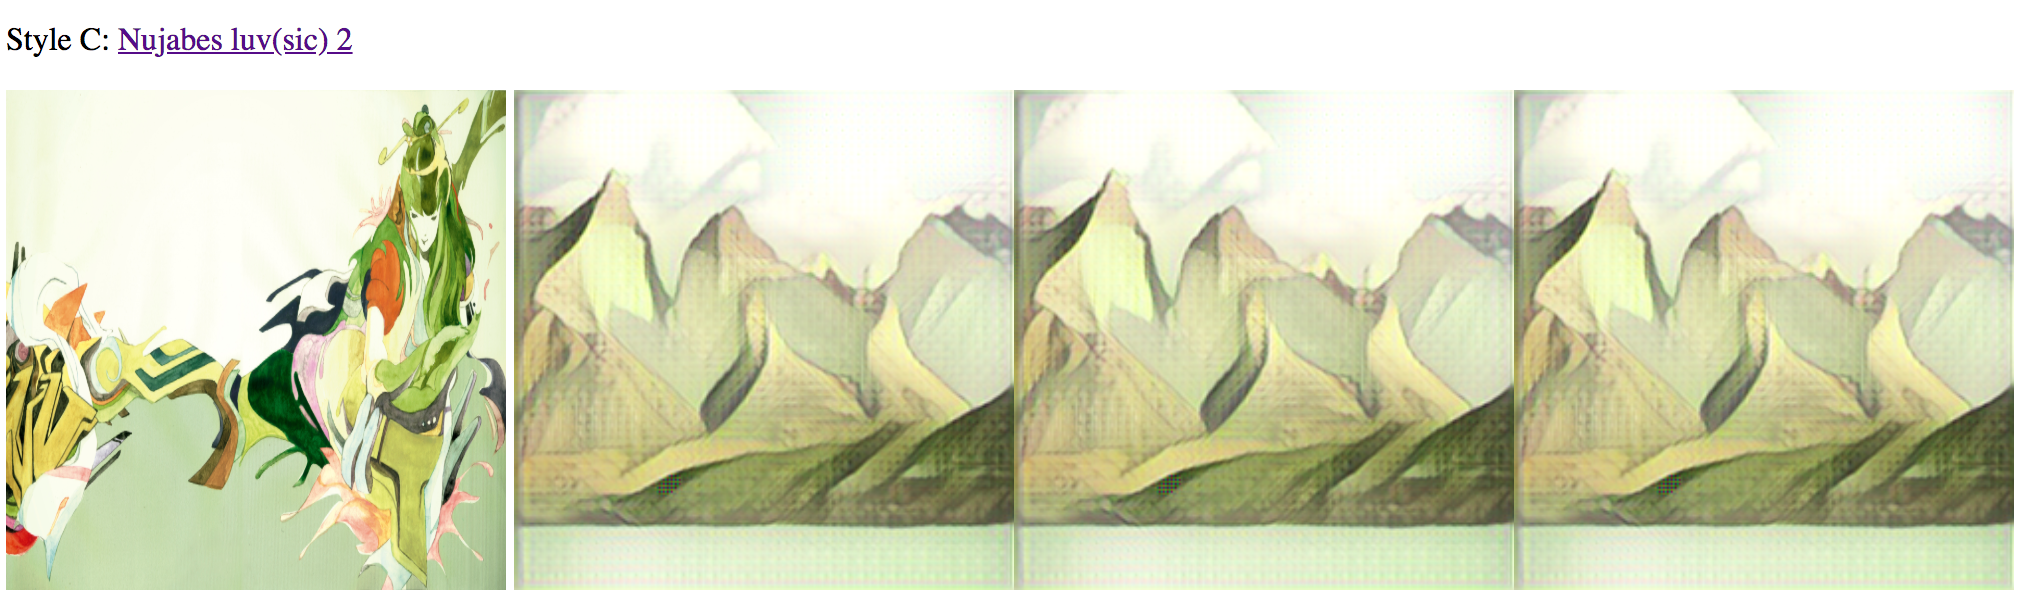
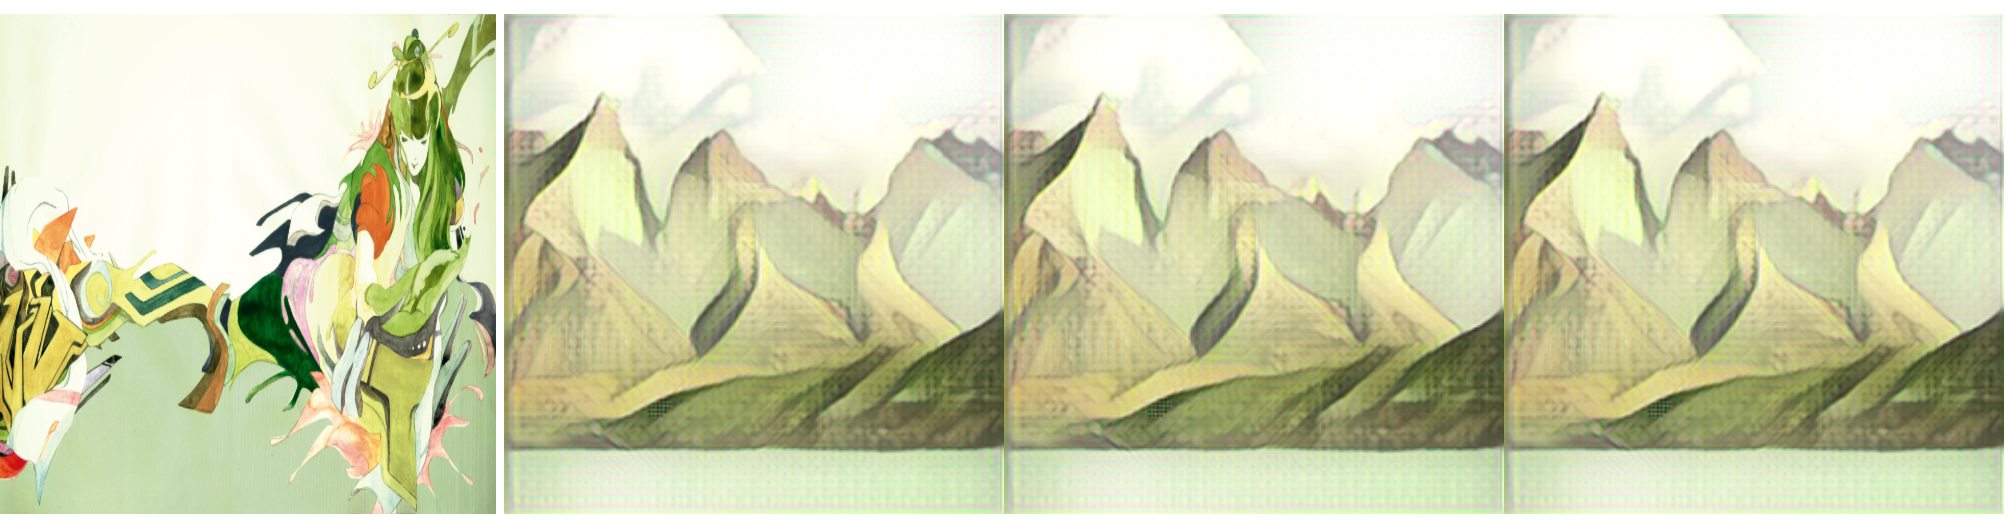
crop images and update blog files

diff --git a/week02-blog/blog.md b/week02-blog/blog.md
@@ -1,23 +1,26 @@
 # Week 2 - Teachable Machine/Transfer Learning
 
-This week we were making a teachable machine. I wanted to train my own data set without using a a webcam. I wanted to see if the machine could tell the difference between a Maine Coon cat and a Racoon.
+This week we were making a teachable machine. I wanted to train my own data set without using a a webcam. I wanted to see if the machine could tell the difference between a Maine Coon cat and a Racoon. I followed [this](https://ml5js.org/docs/training-introduction) example from the ml5 documentation.
 
-https://ml5js.org/docs/training-introduction
+One of the issues I kept having is that ml5 will return an error that it cannot predict null. And the train function needed to be placed in the callback for things to work. I'm sure there's a better way to handle that issue but it was extremely frustrating trying to train the model in the first place. I used the code from this person's [issue](https://github.com/ml5js/ml5-library/issues/185) to debug my own problem.
 
-
-![Image of error 1]
-()
-https://github.com/ml5js/ml5-library/issues/185
-
-
-![Image of error 2]
-()
+## Results
 
 !input]
-()
+(images/input.png?raw=true)
 
 ![result]
-()
+(/images/mainecoon.png?raw=true)
 
 ![result]
-()
+(images/racoon.png?raw=true)
+
+One of the biggest issues is that I am always retraining my model upon refresh, so it would be ideal to implement a save feature and then have that one model loaded every time. I think this would help with the consistency because right now about 60% of the time I have run the program it will label the input image correctly and 40% of the time it won't. Really, my goal was to not use the webcam because my cat didn't want to be my test subject. I also could have added a block that tells the user that the model is being trained instead of needing to watch the console like a hawk.
+
+I'm also not sure why in the console it displays the result label and the training result multiple times?
+
+![console image 1]
+(/images/console-msg1.png?raw=true)
+
+![Image of error 2]
+(images/console-msg2.png?raw=true)

diff --git a/week01-blog/blog.md b/week01-blog/blog.md
@@ -2,30 +2,30 @@
 
 I wanted to see if I could make my own filter in the style of this album cover.
 
-I followed this tutorial (https://github.com/yining1023/styleTransfer_spell/) and everything went well until I got to the part where i needed to actually train my model on Spell. I kept getting this error
+I followed this [tutorial](https://github.com/yining1023/styleTransfer_spell/) and everything went well until I got to the part where i needed to actually train my model on Spell. I kept getting this error
 
 ![Image of error]
-()
+(/images/error1.png?raw=true)
 
 And the issue ended up being that I didn't have a .gitignore in my ckpt directory. It was a very frustrating issue.
 
 Next problem was this
 
 ![Another error]
-()
+(/images/error2.png?raw=true)
 
 I just ran the same command again and it worked the second time.
 
 When I needed to extract my variables into my model folder I kept getting an error about not being able to import tensorflow in the evaluate.py file. This involved installing tensorflow-python version onto my computer, which ended up being a little more complicated than I expected. In the end, I managed to get everything working and tested some images with my new style.
 
 ![yeast]
-()
+(/images/nyeast.png?raw=true)
 
 ![hiking]
-()
+(/images/nhiking.png?raw=true)
 
 ![bird]
-()
+(/images/nbird.png?raw=true)
 
 ![mountains]
- ()
+(/images/nmountains.png?raw=true)
